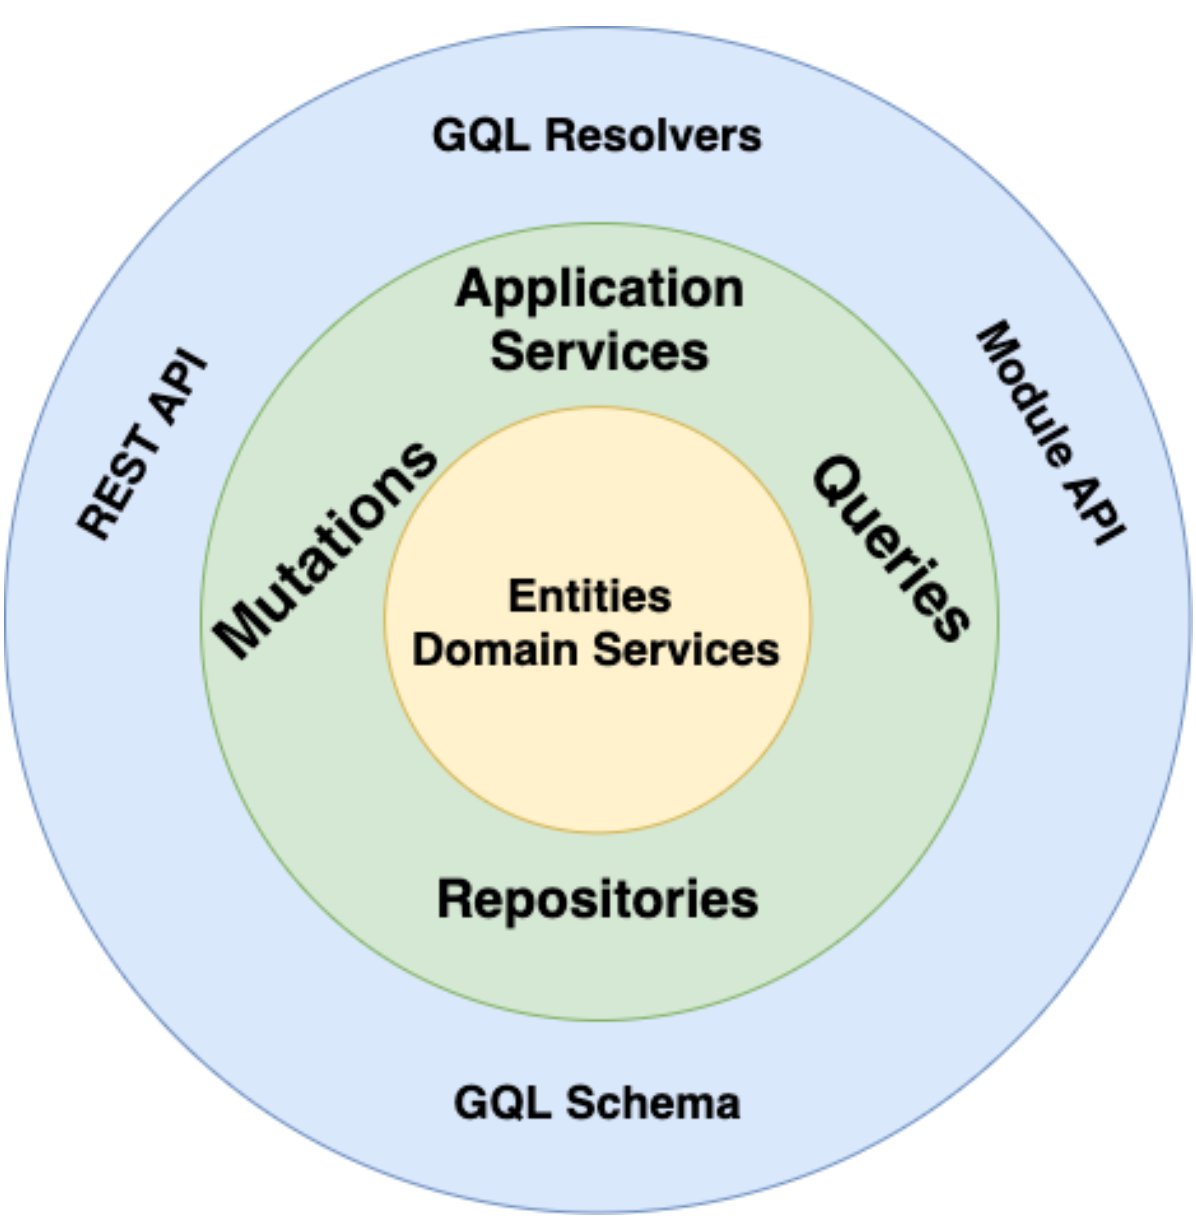
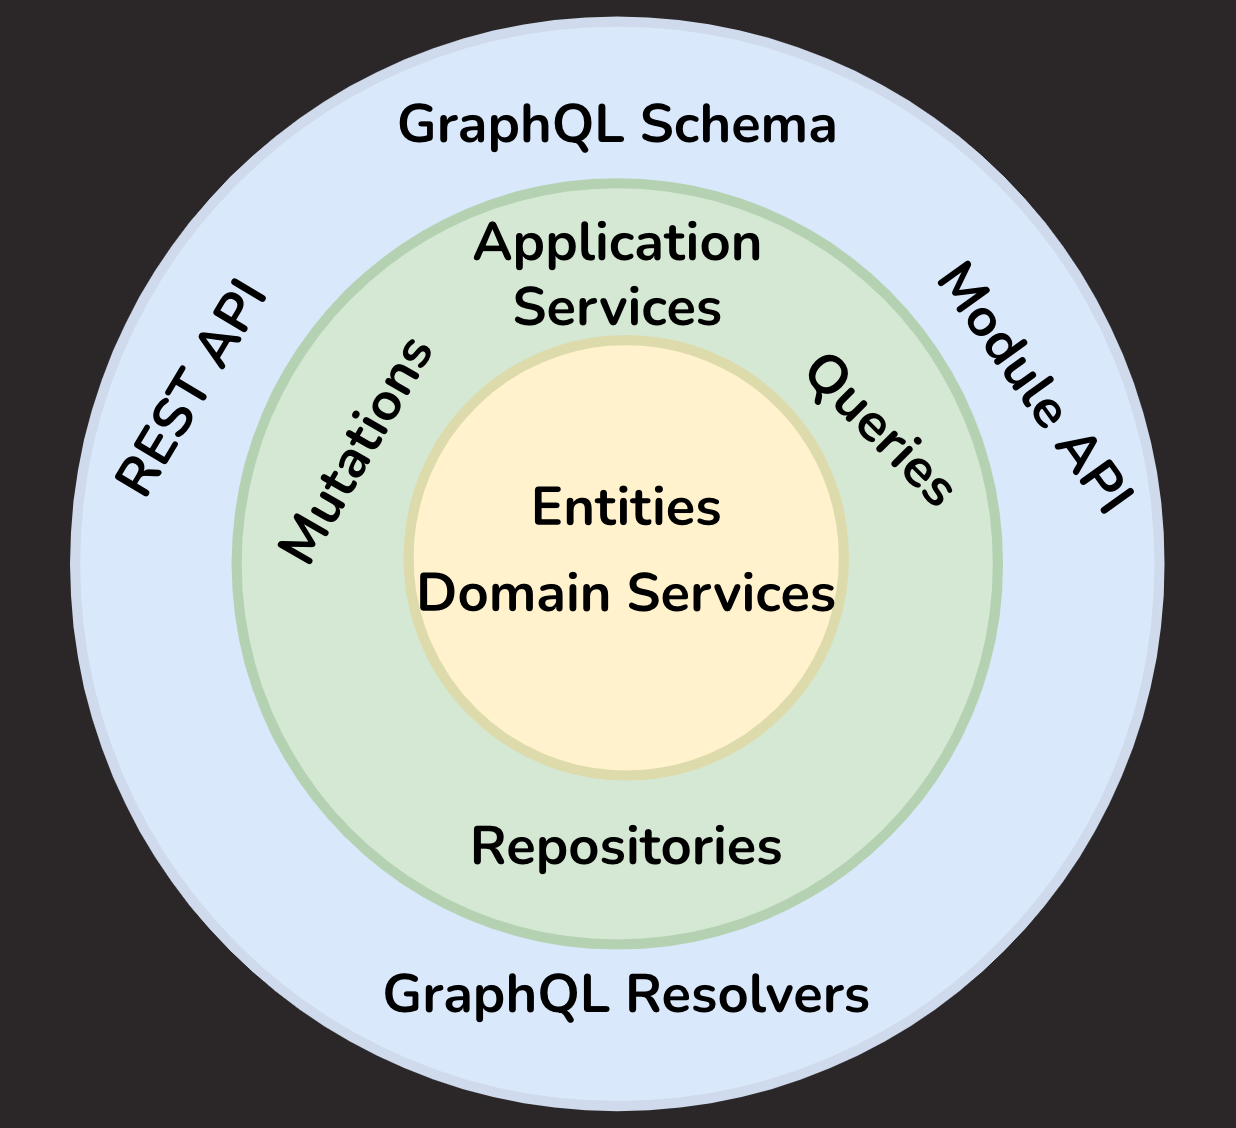
update readme

diff --git a/README.md b/README.md
@@ -2,15 +2,15 @@
 
 Since that's an example, we should have a specific business case to build our software around it.
 
-Let's consider we're a Cloud Service Provider like Digital Ocean, AWS, etc. We provide developers cloud infrastructure-as-a-service platforms. For instance, if someone wants a cloud server to host their application, he comes to us.
+Let's consider we're a Cloud Service Provider like Digital Ocean, AWS, etc. We provide developers with a cloud infrastructure-as-a-service platform. For instance, if someone wants a cloud server to host their application, he comes to us.
 
 We allow only SMBs to register on our website. Each company can have multiple employees.
 
-The main business scenario we have in our example is managing billing related stuff like adding card payment methods, updating billing addresses, invoicing, etc. That's the most crucial area of our business.
+The main business scenario in our example is managing billing-related stuff like adding card payment methods, updating billing addresses, invoicing, etc. That's the most crucial area of our business.
 
-Our goal is to design and create a highly scalable and maintainable API with GraphQL around the above-mentioned business domain.
+We aim to design and create a highly scalable and maintainable API with GraphQL around the above-mentioned business domain.
 
-> 💡 We're modeling software to solve complex real life business problems.
+> 💡 We're modeling software to solve complex real-life business problems.
 
 ## Domains
 
@@ -18,8 +18,13 @@ Our goal is to design and create a highly scalable and maintainable API with Gra
 
   - Account & User entities (subdomains)
 
+  ![](./docs/account-management-bounded-context.png)
+
 - Billing:
-  - Card Payment Profile entity (subdomain)
+
+  - Card Payment Profile & Invoice entities (subdomains)
+
+  ![](./docs/billing-management-bounded-context.png)
 
 ## Used Technologies and Tools:
 
@@ -29,6 +34,16 @@ Our goal is to design and create a highly scalable and maintainable API with Gra
 - [GraphQL Tools](https://the-guild.dev/graphql/tools)
   - [Schema Merging](https://the-guild.dev/graphql/tools/docs/schema-merging)
   - [Code Generation](https://the-guild.dev/graphql/codegen) - TypeScript types based on our GraphQL Schema
+
+## Architecture
+
+### Before
+
+![](docs/before-architecture.png)
+
+### After
+
+![](docs/after-architecture.png)
 
 ## Architectural Principles:
 
